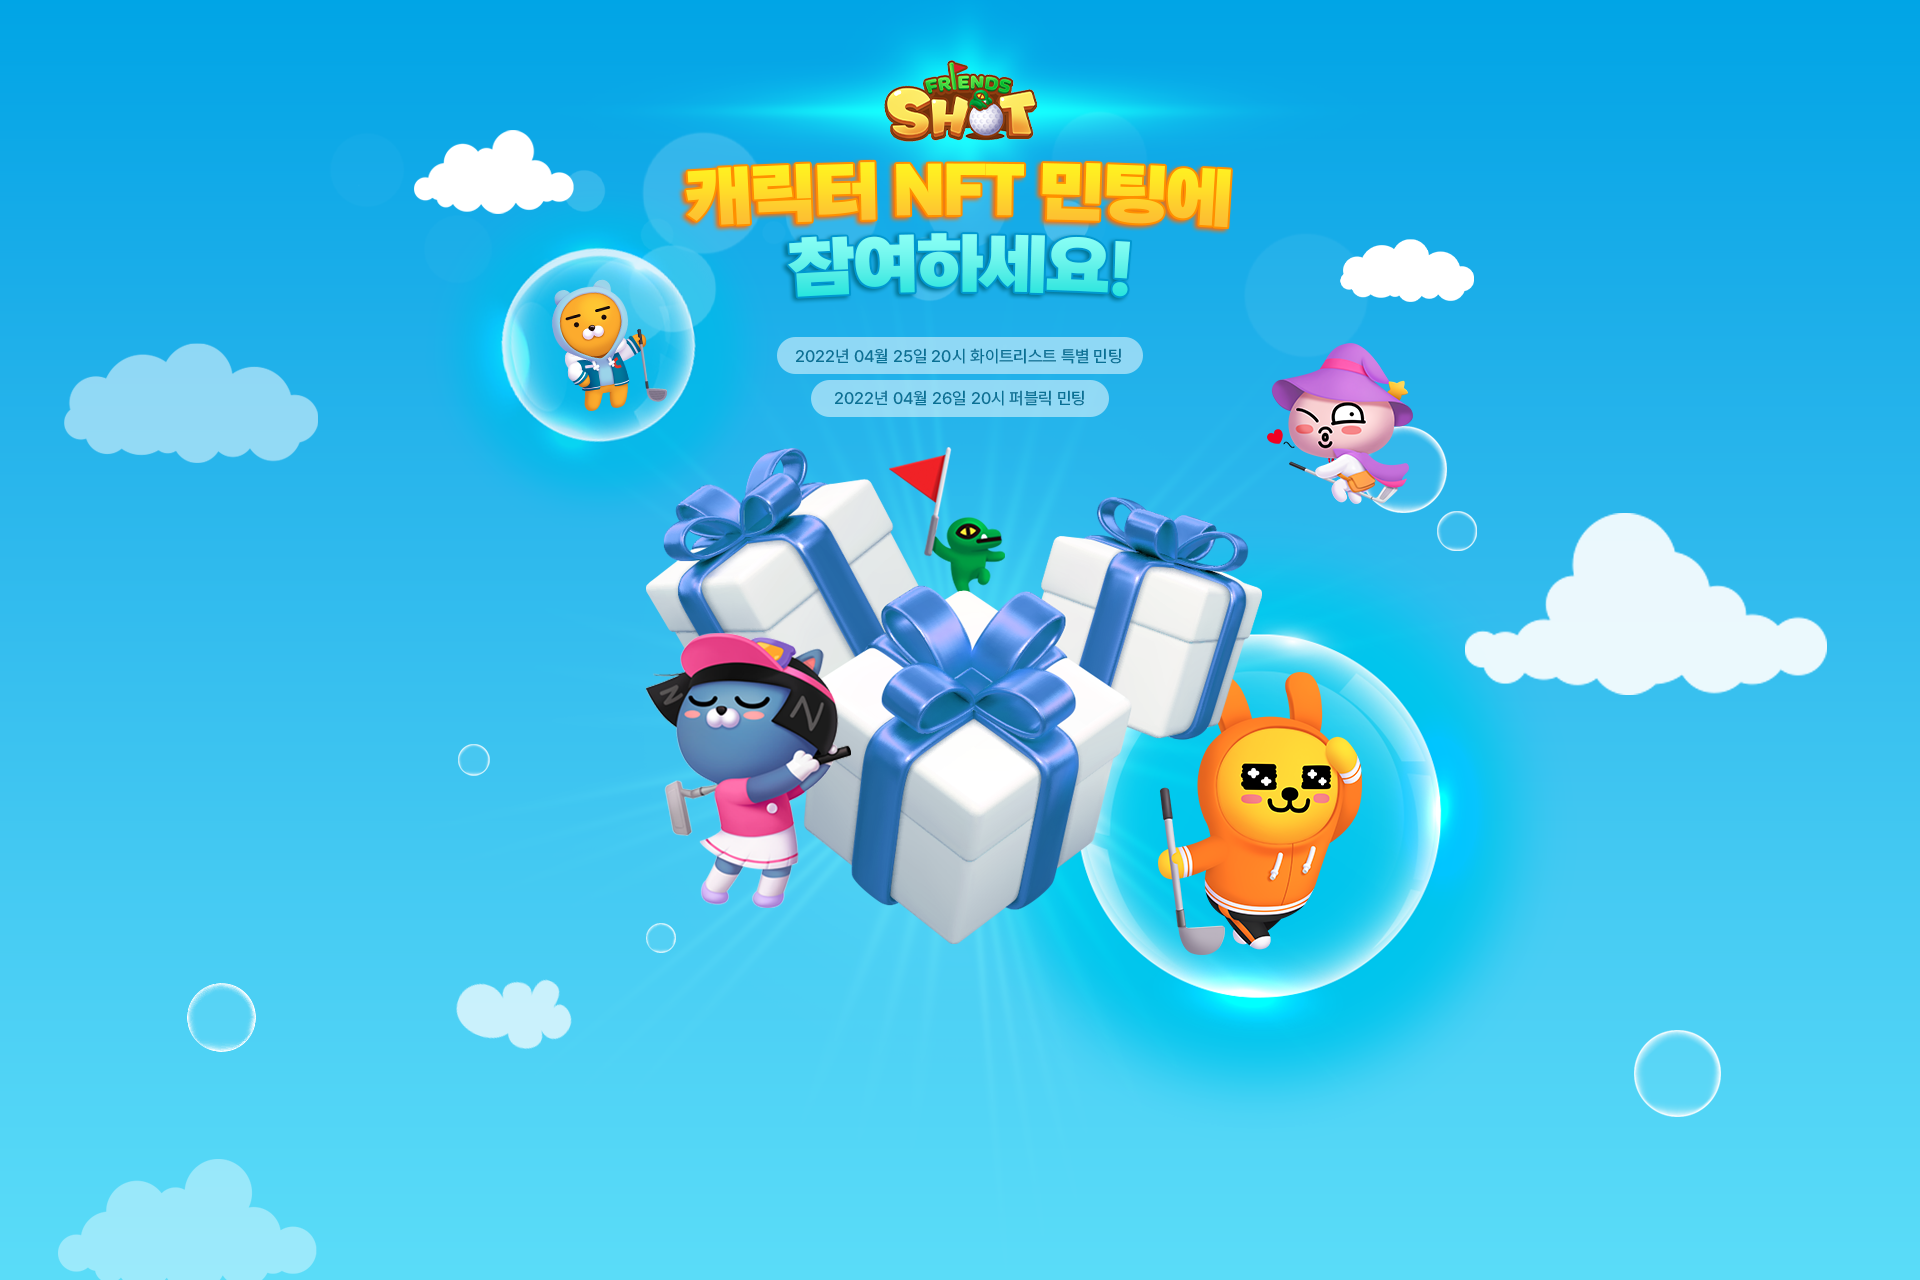
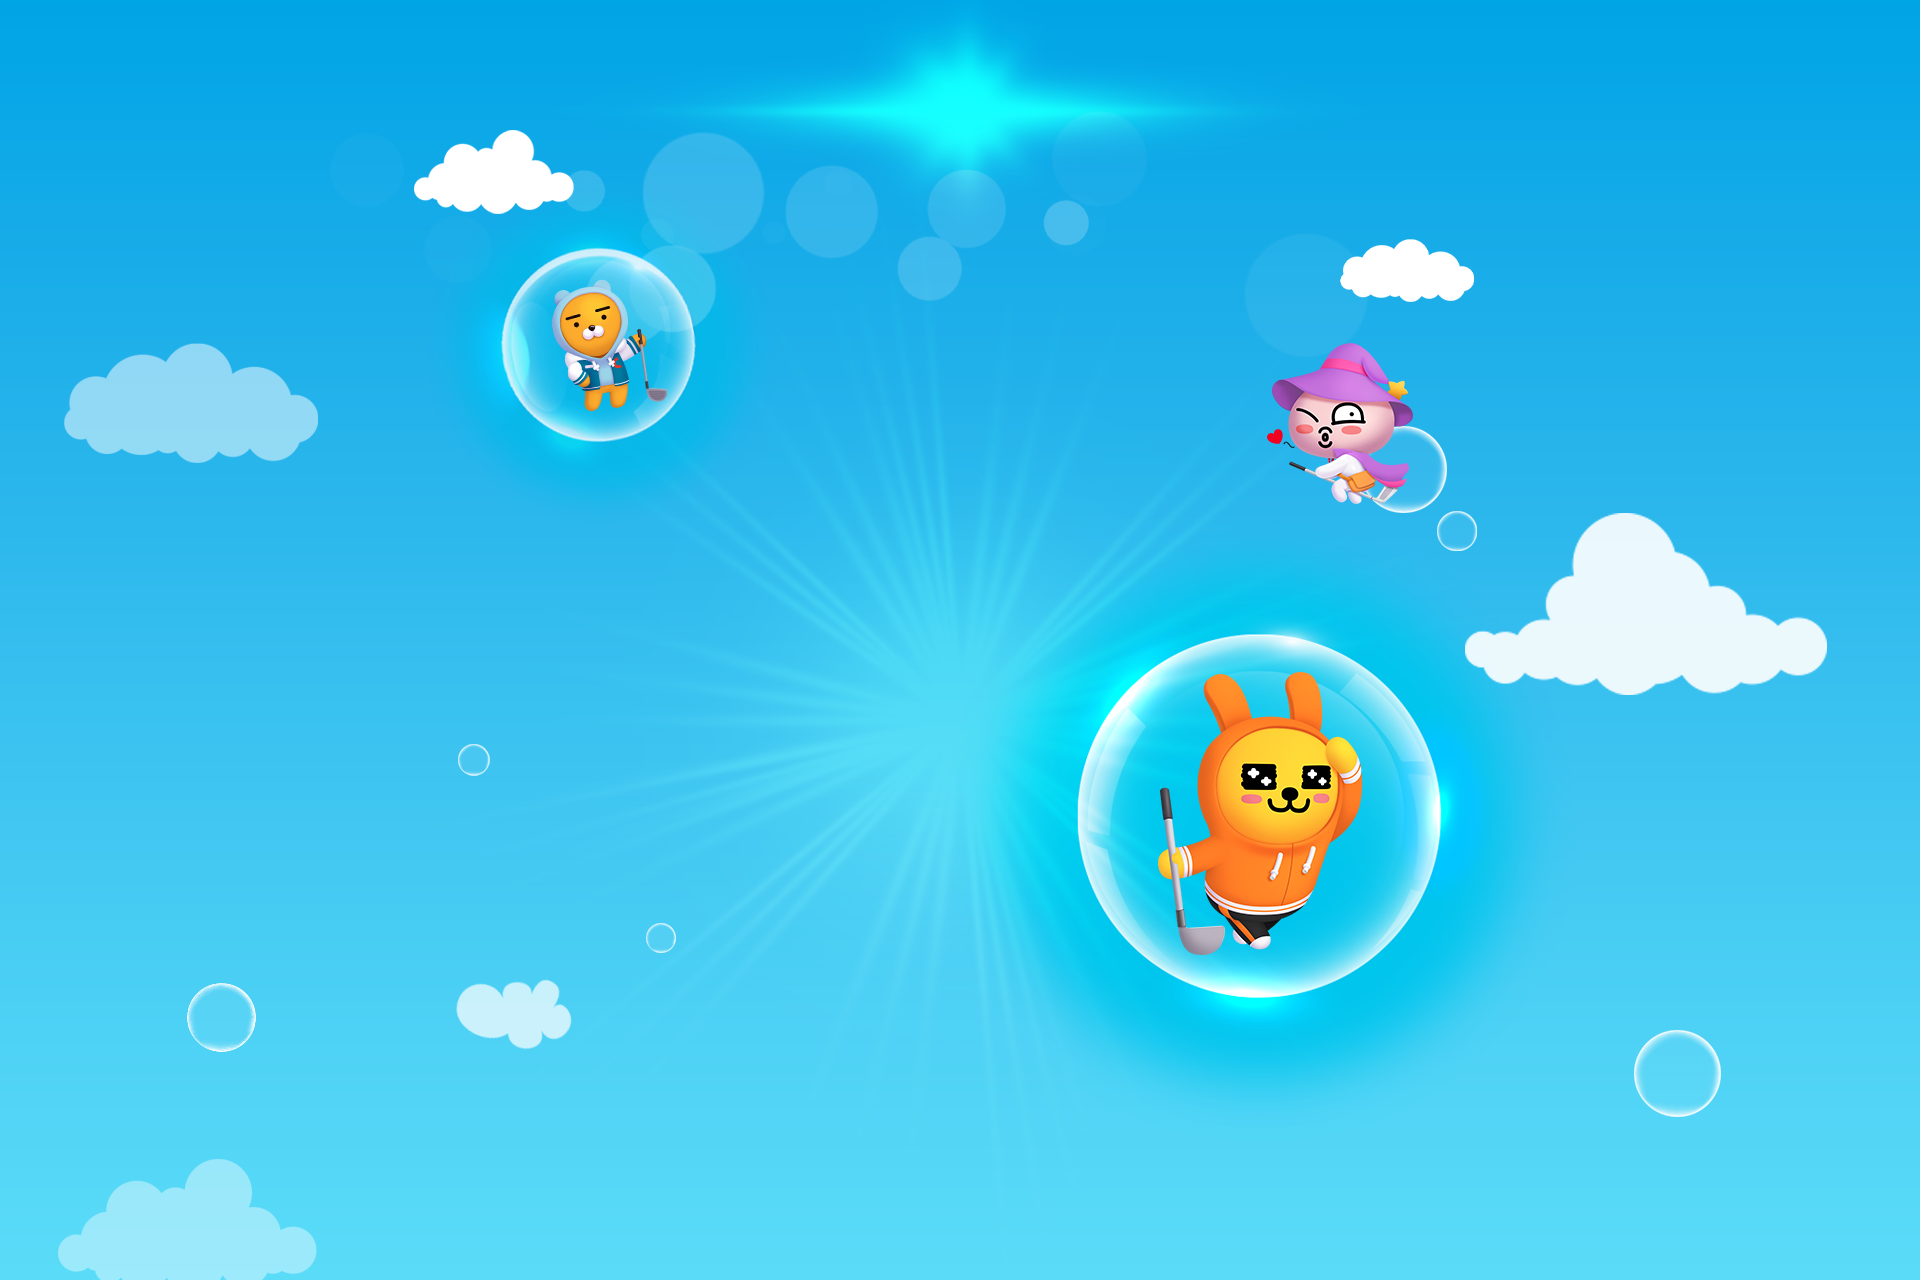
update

Changed region(s): [[0.3125, 0.0312, 0.6562, 0.75]]

diff --git a/content/bora/test.html b/content/bora/test.html
@@ -156,9 +156,7 @@
                             <div class="uk-padding-xsmall uk-radius uk-inline-flex uk-margin-xsmall-top">
                                 <h1 class="uk-h5 uk-h1@s uk-margin-remove dark:uk-text-white"><img src="assets/images/demo/title.png" alt="homepage" width="380" height="208" class="uk-width-1-1" loading="lazy"></h1>
                             </div>
-                            <div class="uk-padding-xsmall uk-radius uk-inline-flex uk-background-black-30">
-                                <h1 class="uk-h3 uk-h1@s uk-margin-remove uk-text-gradient" style="background-image: linear-gradient(45deg, #f6bf75, #d77185, #8766ac, #4150b1)">버디샷</h1>
-                            </div>
+
                             <div class="uk-padding-xsmall uk-radius uk-inline-flex uk-background-black-30 uk-margin-xsmall-top">
                                 <h1 class="uk-h5 uk-h1@s uk-margin-remove dark:uk-text-white">NFT 캐릭터 민팅에 참여하세요!</h1>
                             </div>
@@ -166,15 +164,9 @@
                                 2022년 04월 25일 20시 화이트리스트 특별 민팅 <br class="uk-visible@m">
                                 c2022년 04월 26일 20시 퍼블릭 민팅
                             </p>
-                            <div class="uk-grid-medium uk-margin-medium-top uk-flex-center uk-grid" data-uk-grid="">
-                                <div>
-                                    <h5 class="uk-h4 uk-h1@s uk-margin-remove uk-text-gradient">30+</h5>
-                                    <span class="uk-text-xlarge@s">Ready Pages</span>
-                                </div>
-                                <div>
-                                    <h5 class="uk-h4 uk-h1@s uk-margin-remove uk-text-secondary">70+</h5>
-                                    <span class="uk-text-xlarge@s">UI Elements</span>
-                                </div>
+                            
+                            <div class="uk-padding-xsmall uk-radius uk-inline-flex uk-margin-xsmall-top">
+                                <h1 class="uk-h5 uk-h1@s uk-margin-remove dark:uk-text-white"><img src="assets/images/demo/object.png" alt="homepage" width="380" height="208" class="uk-width-1-1" loading="lazy"></h1>
                             </div>
 
                         </div>
@@ -231,7 +223,8 @@
             </div>
 
             <!-- Features -->
-            <div id="features" class="uk-section uk-section-xlarge@s uk-panel uk-overflow-hidden uk-background-black-5 dark:uk-background-white-5">
+            <div id="features" class="uk-section uk-section-xlarge@s uk-panel uk-overflow-hidden uk-dark uk-text-white">
+                <img loading="eager" src="assets/images/demo/center.png"  class="uk-cover" data-uk-cover loading="lazy">
                 <div class="uk-container">
                     <header class="uk-text-center">
                         <h3 class="uk-h4 uk-h2@s">타이틀</h3>
@@ -320,7 +313,7 @@
                             </div>
                         </div>
                         <p class="uk-text-center uk-margin-medium-top@m">ㄹㅇㄹㅇㄹㅇㄹㅇ</p>
-                        <p class="uk-text-meta uk-text-center uk-flex-middle uk-flex-center">ㄹㅇㄹㅇㄹㅇ <span class="uk-icon-small uk-text-danger material-icons uk-margin-2xsmall-left uk-margin-2xsmall-right">favorite</span> by <a class="uk-margin-2xsmall-left" href="https://unistudio.co">지유님이시다</a></p>
+                        <p class="uk-text-meta uk-text-center uk-flex-middle uk-flex-center">ㄹㅇㄹㅇㄹㅇ <span class="uk-icon-small uk-text-danger material-icons uk-margin-2xsmall-left uk-margin-2xsmall-right">favorite</span> by <a class="uk-margin-2xsmall-left" href="">지유님이시다</a></p>
                     </div>
                 </div>
             </div>
